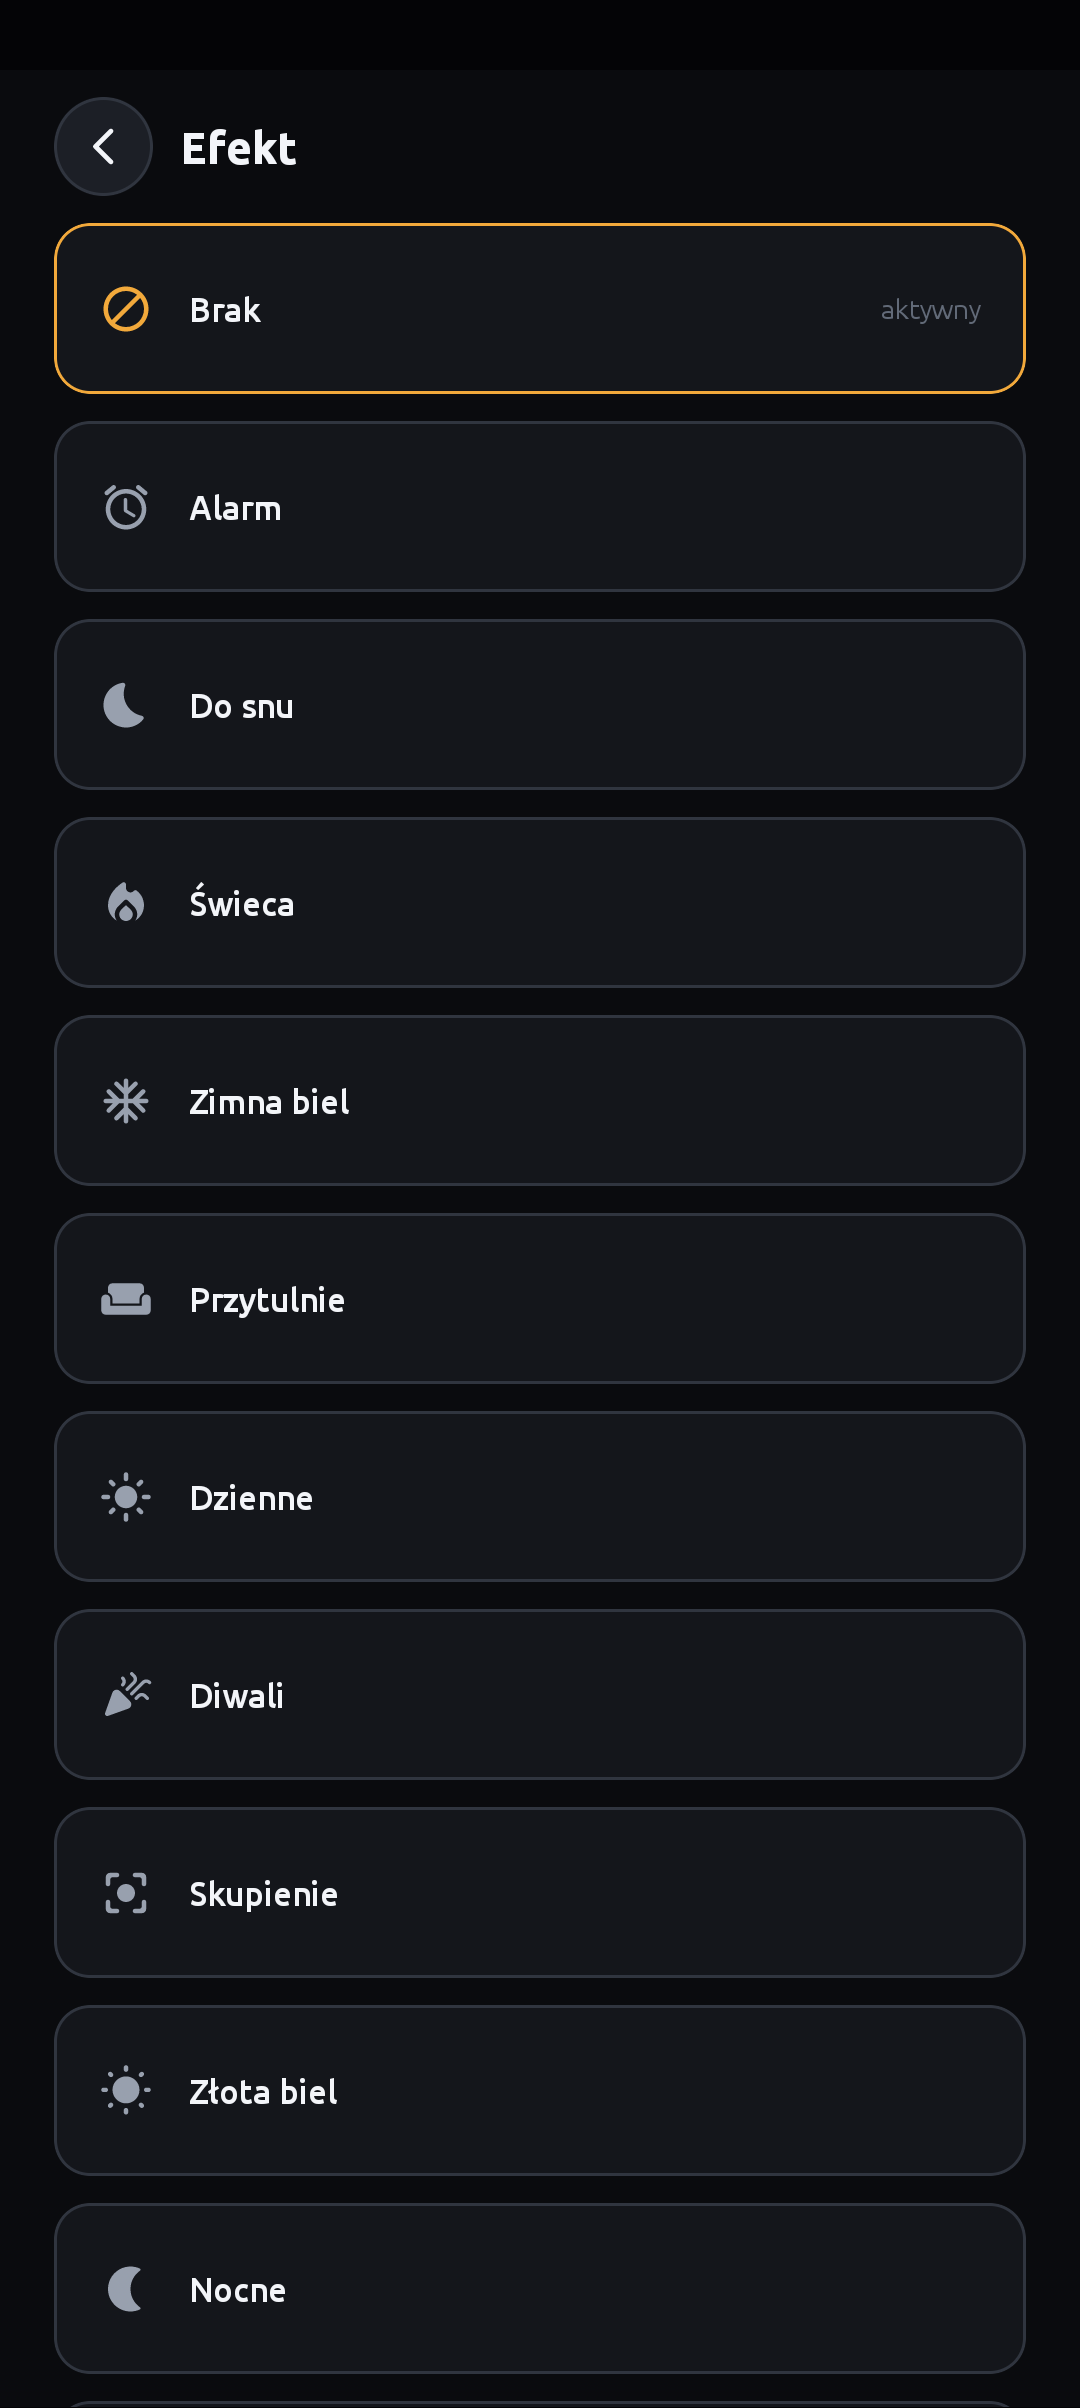
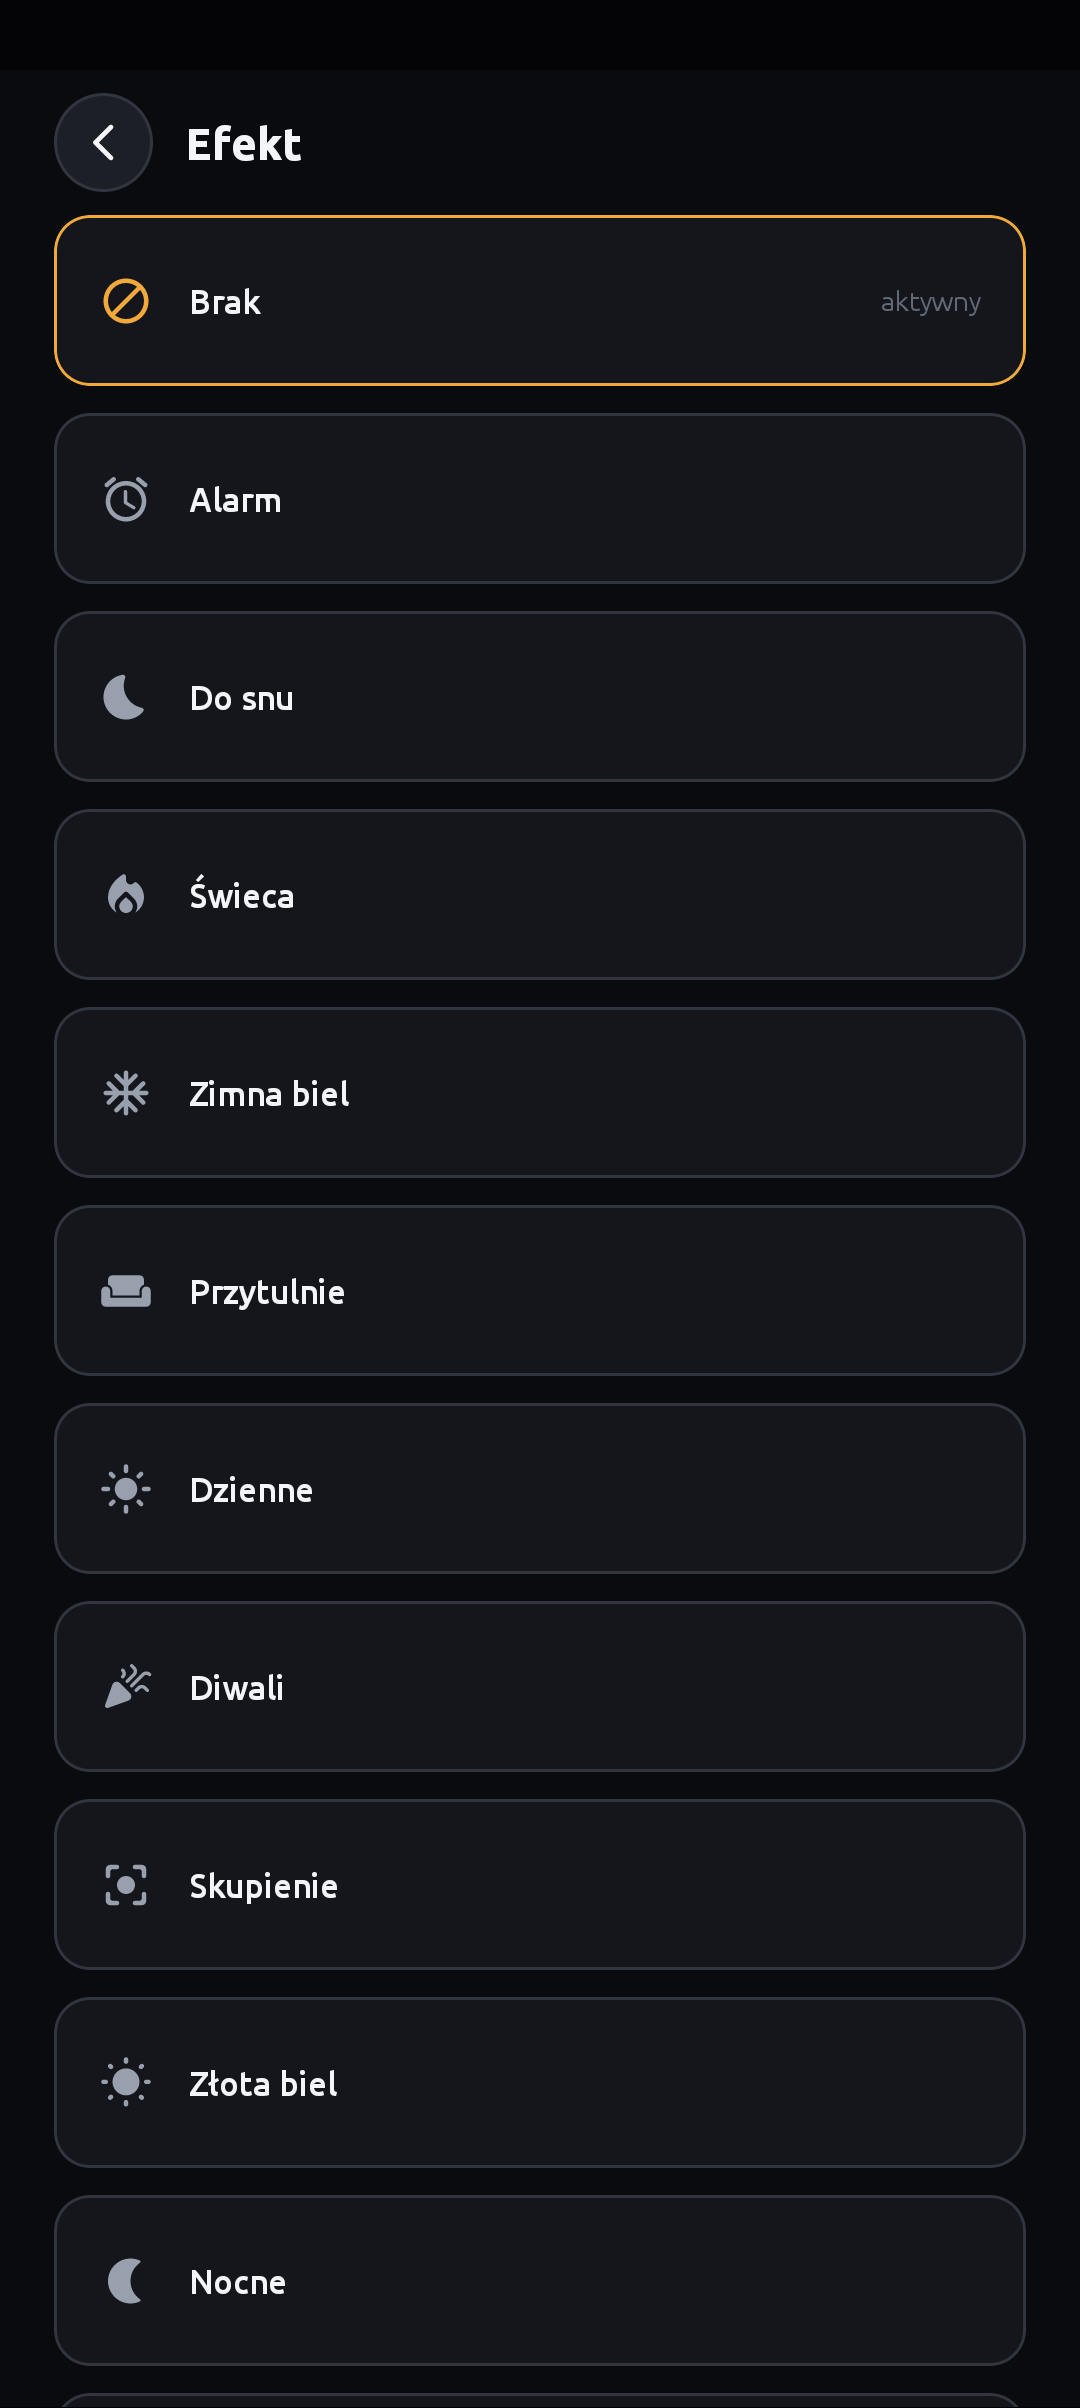
docs: English README, overview screenshots of every screen
- README.en.md: English version of the README, language links both ways
- fresh portrait and landscape screenshots of all screens from the M23
- overview-portrait.png and overview-landscape.png contact sheets replace
  the single Start pair at the top of the README

diff --git a/phone/README.en.md b/phone/README.en.md
@@ -1,0 +1,63 @@
+# The remote on a phone
+
+[Polski](README.md)
+
+The Couchpad remote (TV, Apple TV, Logitech Z906, lights and air conditioning through Home
+Assistant) as an Android app. Prototype: Galaxy M23 5G; target: Galaxy S5 (Android 6).
+
+The main app is a **native Kotlin + Jetpack Compose app in [`native/`](native/)**. It mirrors
+the board firmware's interface and settings (`../firmware`) one to one and speaks the same
+MQTT contract. This repository does not change the firmware.
+
+![Portrait screens](docs/screenshots/overview-portrait.png)
+
+![Landscape screens](docs/screenshots/overview-landscape.png)
+
+All screens: [`docs/screenshots/portrait/`](docs/screenshots/portrait/) and
+[`docs/screenshots/landscape/`](docs/screenshots/landscape/) — Start, TV, Apple TV, Z906, Home,
+room, lamp, effects, bulb, air conditioning and settings.
+
+## What it does
+
+- **Connectivity:** a single MQTT connection. Z906 directly on the controller's topics
+  (ADR 0006), the TV directly through Glasshouse (ADR 0008), Apple TV, air conditioning,
+  lights, weather and channels through the `multimedia_remote/v1` contract via the HA bridge.
+  It reconnects every time it is opened and shows the controls only after a fresh state
+  arrives (ADR 0005); in the background it disconnects.
+- **Screens as on the board,** in portrait (tabs at the bottom) and landscape (side bar,
+  drawers in the Home tab). In landscape the bar fits into the strip next to the front camera.
+- **Launcher:** the remote can be the phone's home screen — it starts with the phone, Home
+  returns to the start screen, and when the screen turns on the remote shows up at once,
+  above the lock screen (no swipe needed without a PIN), always on the start screen
+  (ADR 0010). Set it in *Settings → Phone → Set as home screen*; the phone's app list and the
+  way into Android settings are there too.
+- **Settings 1:1:** MQTT (empty identifiers are discovered automatically), display
+  (orientation, theme, brightness, night mode, screen timeout), sound, room and time,
+  keyboard and trackpad, diagnostics.
+
+## Build and install
+
+Requires JDK 17 (`brew install openjdk@17`) and the Android SDK with `platforms;android-34`,
+`build-tools;34.0.0`.
+
+```bash
+cd native
+export JAVA_HOME=$(brew --prefix openjdk@17)/libexec/openjdk.jdk/Contents/Home
+echo "sdk.dir=$HOME/Library/Android/sdk" > local.properties
+./gradlew assembleDebug
+adb install -r app/build/outputs/apk/debug/app-debug.apk
+./gradlew testDebugUnitTest   # logic tests without a phone
+```
+
+Broker details are entered on the phone (Settings → MQTT). They never reach the repository.
+
+Screenshots from a connected phone: `tools/screenshots.sh portrait|landscape`.
+
+## LVGL port (reference)
+
+The first version ran the firmware's LVGL code through SDL2: `compat/` (ESP-IDF and FreeRTOS
+on system threads, NVS in a file, an MQTT client with the esp-mqtt API), `platform/` and
+`android/`. It also works as a simulator on a Mac (`cmake -S . -B build/sim && cmake --build build/sim`),
+but the 480 × 800 image scaled up on the phone was blurry, so the native app is what we develop.
+
+Work status and next steps (in Polish): [`docs/PROGRESS.md`](docs/PROGRESS.md).

diff --git a/phone/README.md b/phone/README.md
@@ -1,5 +1,7 @@
 # Pilot na telefonie
 
+[English](README.en.md)
+
 Pilot Couchpad (TV, Apple TV, Logitech Z906, światła i klimatyzacja przez Home Assistanta)
 jako aplikacja na Androida. Prototyp: Galaxy M23 5G, docelowo Galaxy S5 (Android 6).
 
@@ -7,9 +9,9 @@ Aplikacja główna to **natywna aplikacja Kotlin + Jetpack Compose w [`native/`]
 Odwzorowuje 1:1 interfejs i ustawienia firmware'u płytki (`../firmware`) i mówi tym samym
 kontraktem MQTT. Firmware nie jest przez to repozytorium zmieniany.
 
-| Pion | Poziom |
-| --- | --- |
-| ![Start](docs/screenshots/portrait/01-start.png) | ![Start](docs/screenshots/landscape/01-start.png) |
+![Ekrany w pionie](docs/screenshots/overview-portrait.png)
+
+![Ekrany w poziomie](docs/screenshots/overview-landscape.png)
 
 Wszystkie ekrany: [`docs/screenshots/portrait/`](docs/screenshots/portrait/) i
 [`docs/screenshots/landscape/`](docs/screenshots/landscape/) — Start, TV, Apple TV, Z906, Dom,
